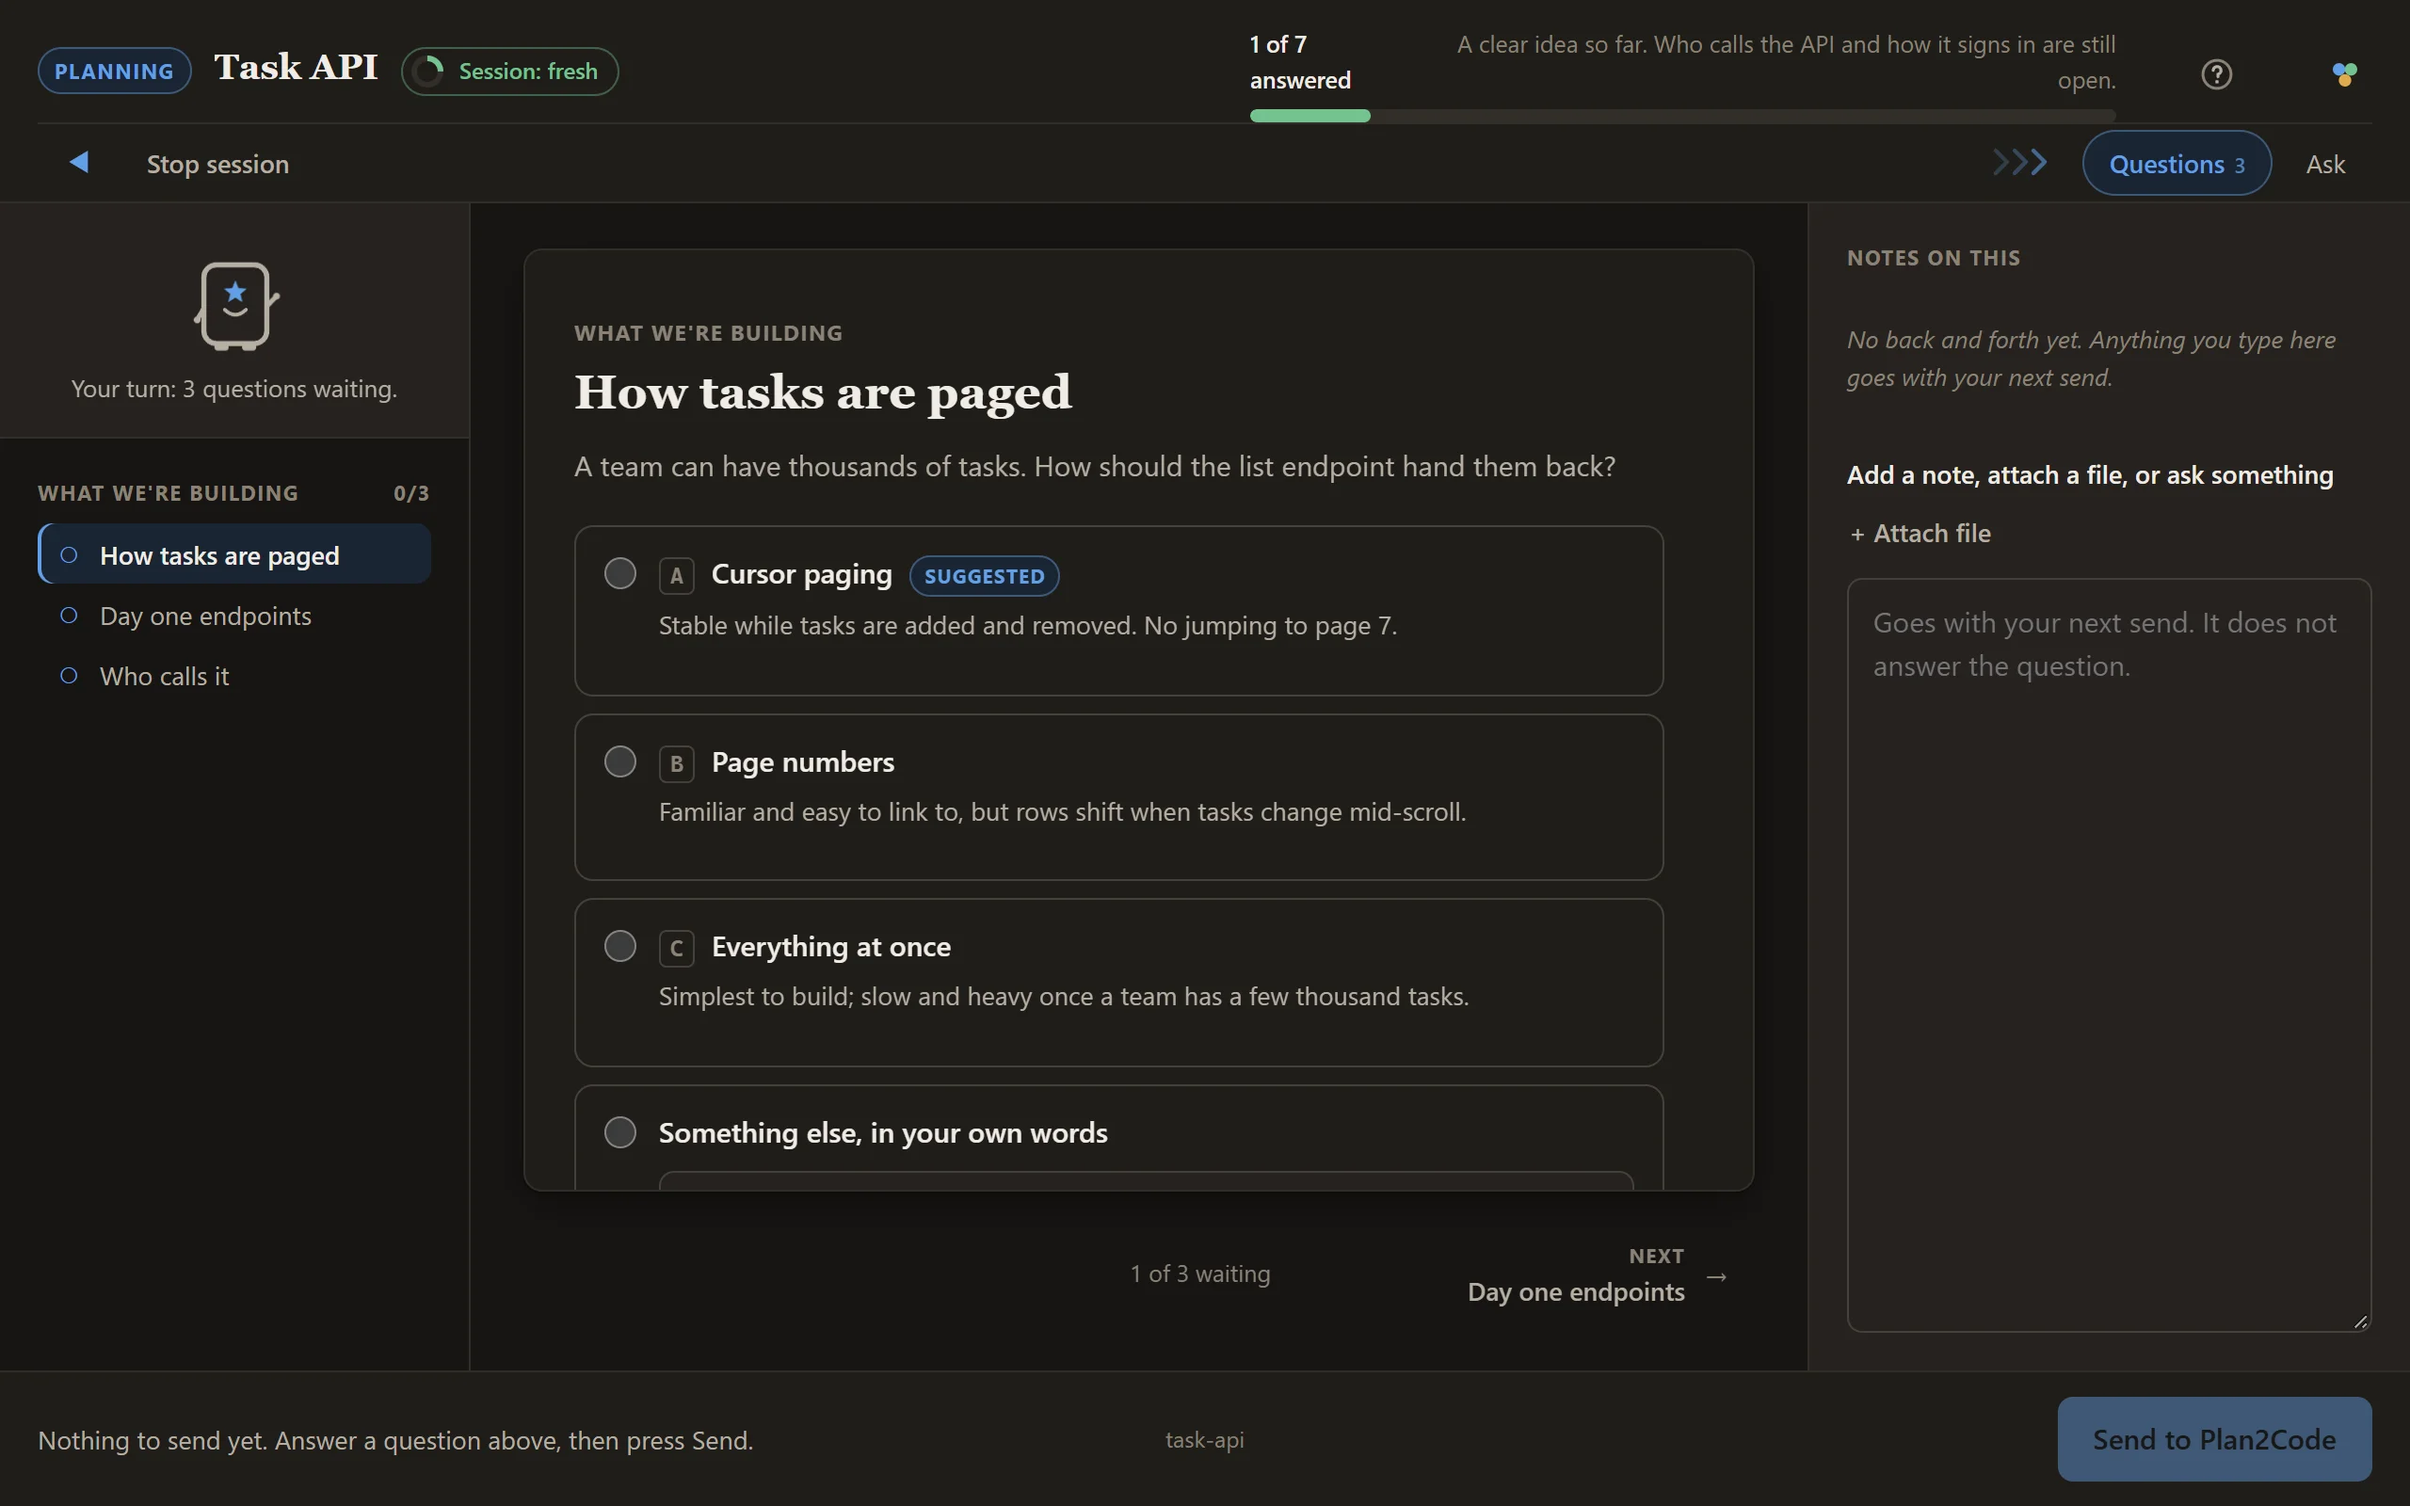
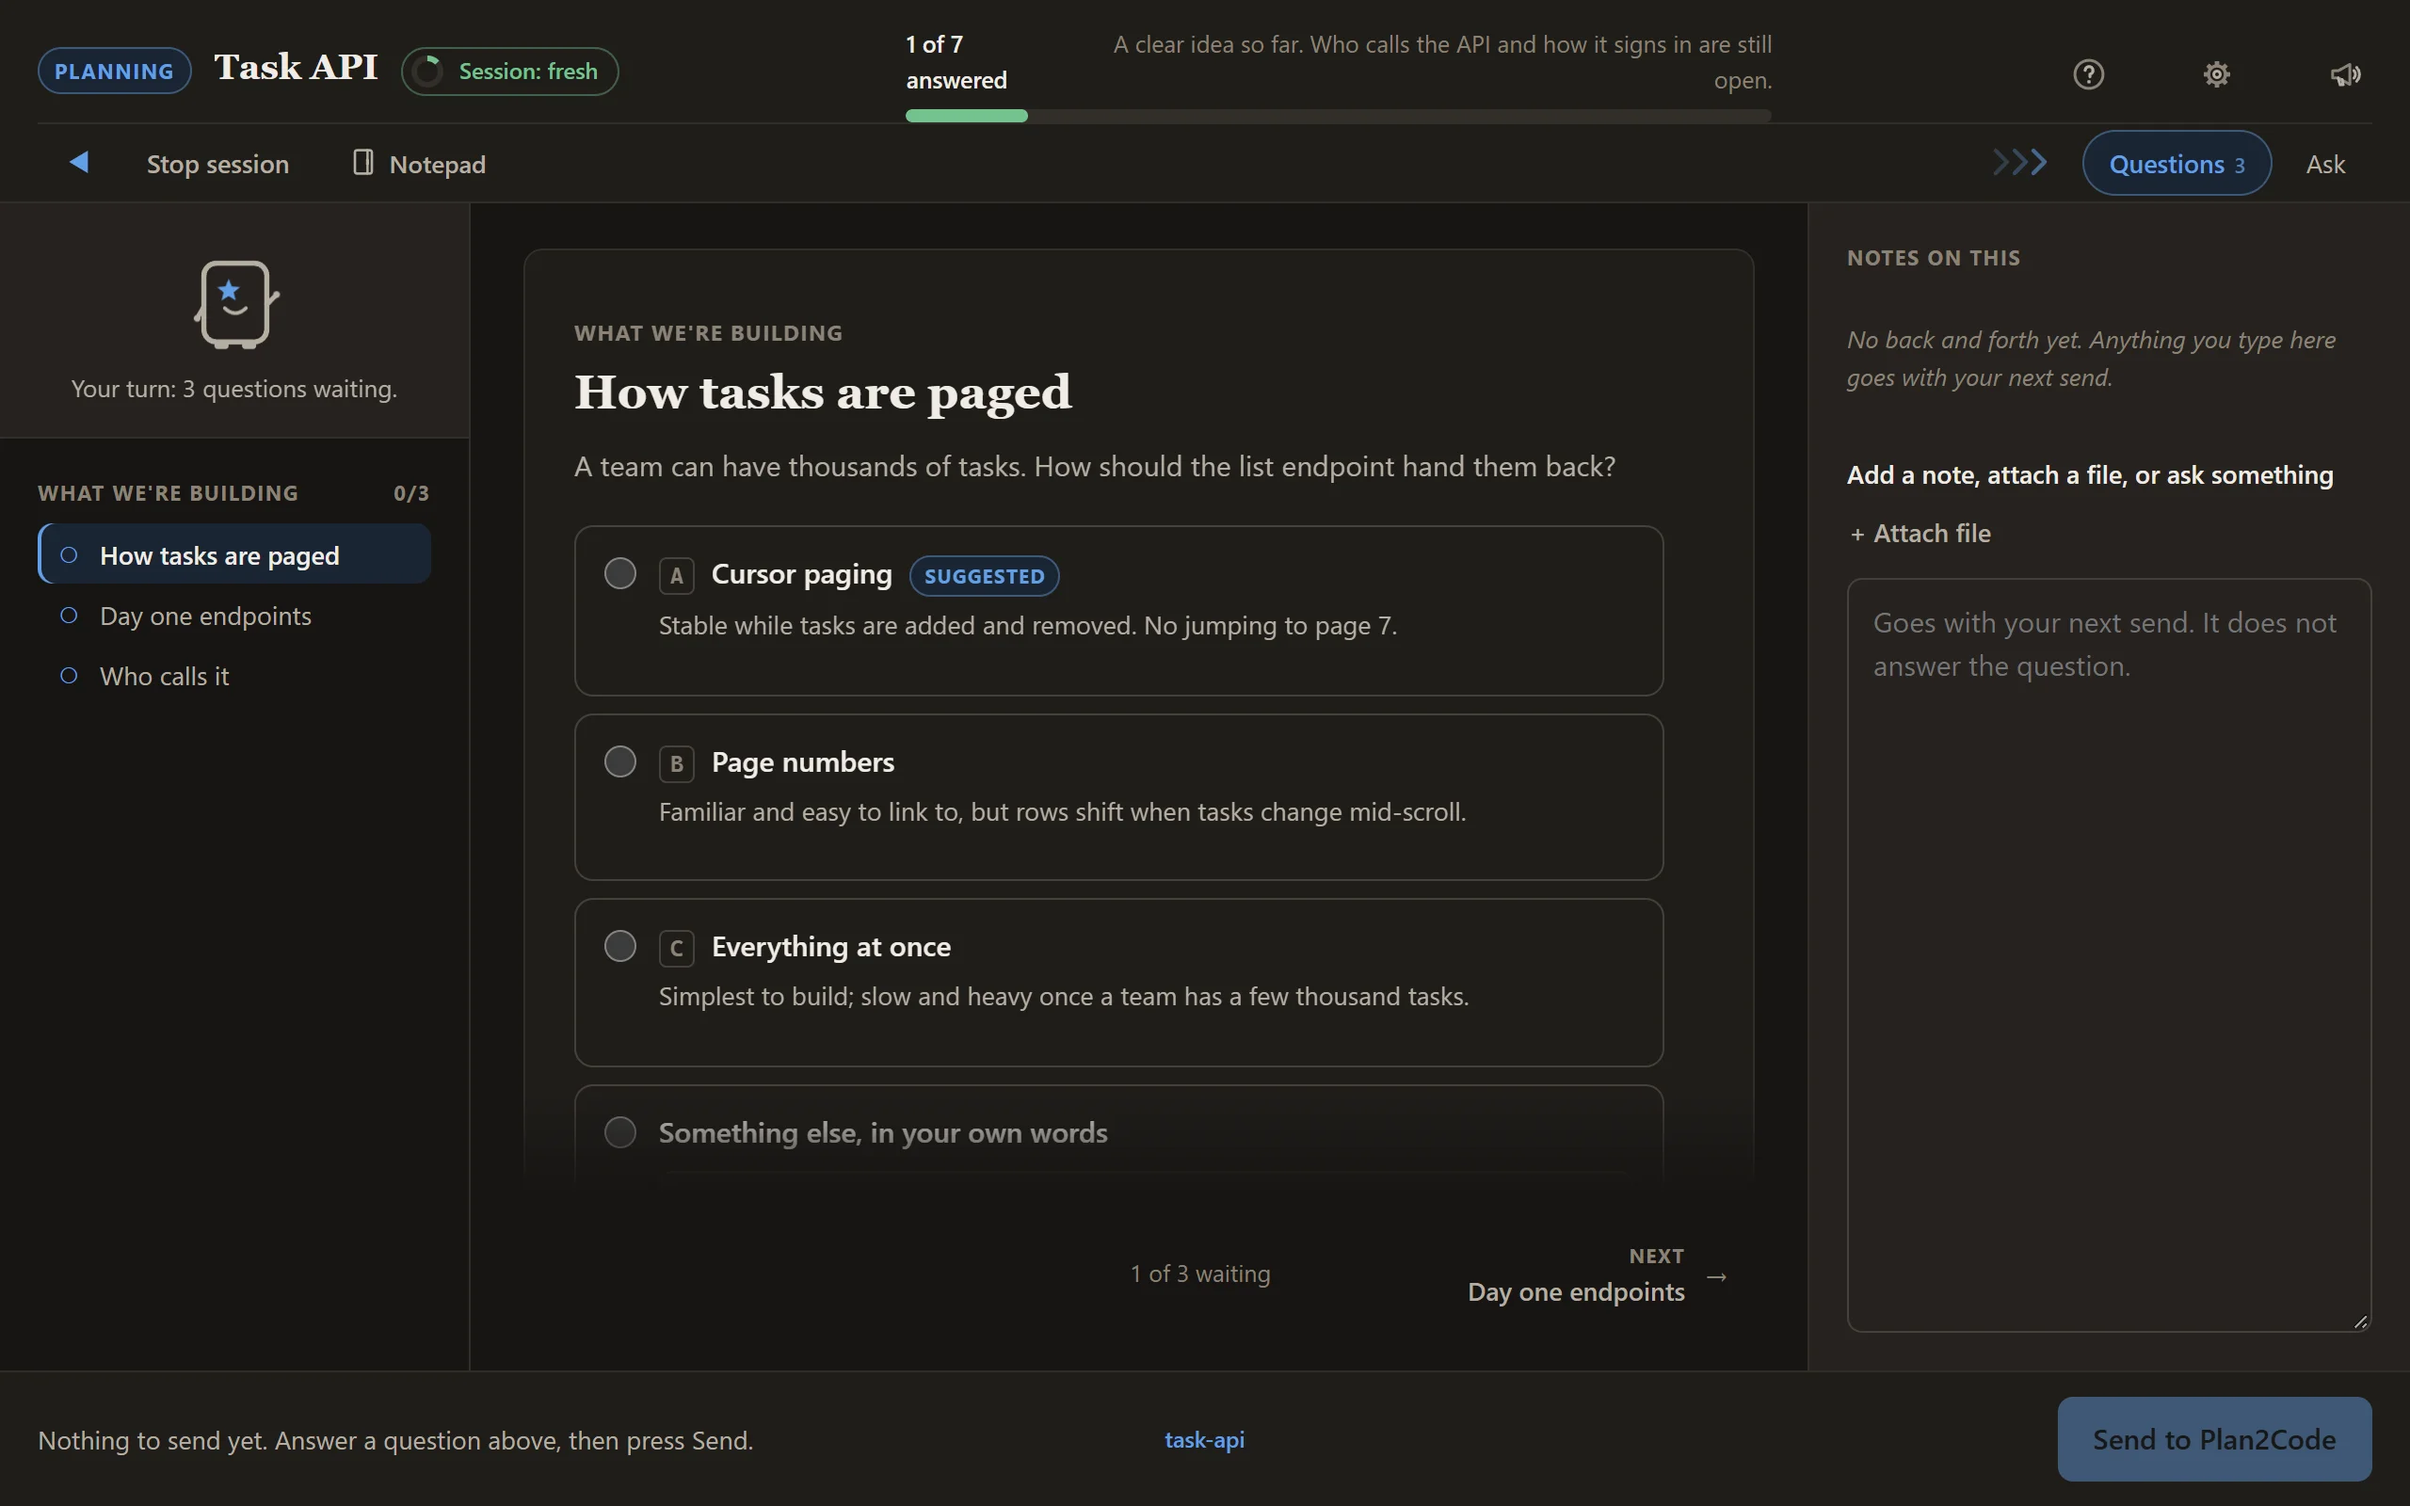
Add a Notepad card, regenerated screenshots and a Notepad shot to the docs
AI Assisted

diff --git a/docs/index.html b/docs/index.html
@@ -335,6 +335,7 @@ footer a { color: inherit; }
       <div><h3>Review before you approve</h3><p>Review the code first, on the sign-off card, reviews exactly the files the phase changed. You tick which findings get fixed, then approve.</p></div>
       <div><h3>The Ask tab</h3><p>A chat beside the cards for anything you want to know. It is answered at the agent's next check-in and never holds up your answers.</p></div>
       <div><h3>Attachments on notes</h3><p>Paste a screenshot or attach a document to a note on any question, and show instead of describe.</p></div>
+      <div><h3>A notepad of your own</h3><p>A private pad for each project folder, in Markdown with pictures. It never goes into your project, and the agent never sees it.</p></div>
       <div><h3>Workspace folders</h3><p>Add a shared library or a design folder as read-only context, and point at it by its <code>@name</code>.</p></div>
       <div><h3>Session meter</h3><p>A ring in the top bar turns from green to red as a session grows long, and suggests when a fresh one would serve you better.</p></div>
       <div><h3>Runs on your machine</h3><p>A small program Plan2Code starts for you serves the page on <code>127.0.0.1</code>. No account, no dependencies, and nothing leaves your computer.</p></div>
@@ -353,6 +354,13 @@ footer a { color: inherit; }
           <img src="screenshots/finish-light.webp" width="2560" height="1600" loading="lazy" alt="The finished screen after a phase: what happened, the next command with a Copy button, and a Back to the dashboard button.">
         </picture>
         <figcaption>Every ending says what to run next.</figcaption>
+      </figure>
+      <figure style="grid-column:1/-1;max-width:calc(50% - 12px);justify-self:center">
+        <picture class="shot">
+          <source media="(prefers-color-scheme: dark)" srcset="screenshots/notepad-dark.webp">
+          <img src="screenshots/notepad-light.webp" width="2560" height="1600" loading="lazy" alt="The Notepad open over a question: a few lines of Markdown styled as they are typed.">
+        </picture>
+        <figcaption>Your own notepad, private to the folder.</figcaption>
       </figure>
     </div>
   </div>

diff --git a/README.md b/README.md
@@ -150,7 +150,8 @@ next check-in, and it never holds up your answers.
 
 There is more on the page when you need it. Notes on any question can carry screenshots and
 documents. The folder label in the bottom bar opens your workspace, where you add other folders
-as read-only context and point at them by `@name`. The session meter in the top bar turns from green
+as read-only context and point at them by `@name`. The **Notepad** in the top bar is a private pad of your own for the
+folder, in Markdown with pictures, that the agent never sees. The session meter in the top bar turns from green
 to red as a session grows long and suggests a fresh one. **Stop session** saves your place and gives
 you the command to carry on later, and **Back to the dashboard** takes you home to pick the next
 step in the same session.

diff --git a/QUICK-REFERENCE.md b/QUICK-REFERENCE.md
@@ -23,6 +23,8 @@ The install command always opens a menu. Back at your prompt with no output at a
 
 Pick a skill on the dashboard and the same page becomes that session. Details: [.readme/web-console.md](.readme/web-console.md) · worked example: [.readme/walkthrough.md](.readme/walkthrough.md).
 
+The **Notepad** icon in the top bar opens a private scratch pad for the folder you are in (Markdown and pictures, kept in `~/.plan2code/notepads/`, never shown to the agent).
+
 ## Commands
 
 Every command below is what a dashboard card runs. Typed on its own, each one asks "web console or terminal?" first.
